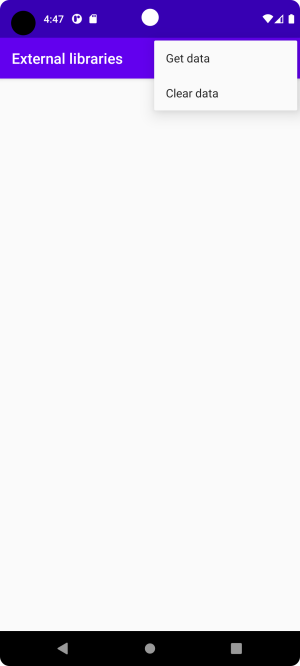
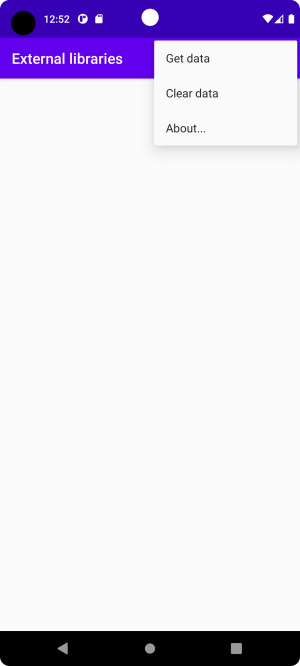
Update report

Changed region(s): [[0.15, 0.0, 0.36, 0.0601], [0.54, 0.1802, 0.66, 0.2102], [0.99, 0.1802, 1.0, 0.2402]]

diff --git a/README.md b/README.md
@@ -3,9 +3,10 @@
 
 **External libraries**
 
-Jag har löst denna upp genom att utöka programmet jag skrev för att lösa uppgift fem. Precis som det programmet gjorde så hämtar detta program JSON-data om berg ifrån en webbtjänst. Till skillnad från den gamla versionen så läser denna även fältet img i objektet aux, och använder biblioteket Glider för att hämta motsvarande bild. För att hämta data så väljer man menyalternativet "Get data", för att ta bort laddad data väljer man "Clear data".
+Jag har löst denna upp genom att utöka programmet jag skrev för att lösa uppgift fem. Precis som det programmet gjorde så hämtar detta program JSON-data om berg ifrån en webbtjänst. Till skillnad från den gamla versionen så läser denna även fältet img i objektet aux, och använder biblioteket Glider för att hämta motsvarande bild. För att hämta data så väljer man menyalternativet "Get data", för att ta bort laddad data väljer man "Clear data". Väljer man About.. så startas en ny aktivitet som visar en ImageView och en TextView med information om programmet.
 
-![](base_ui.png)
+-----
+![](base_ui.png) ![](about.png)
 
 För att få tillgång till Glider-biblioteket behövdes följande tillägg göras till app/build.gradle
 
